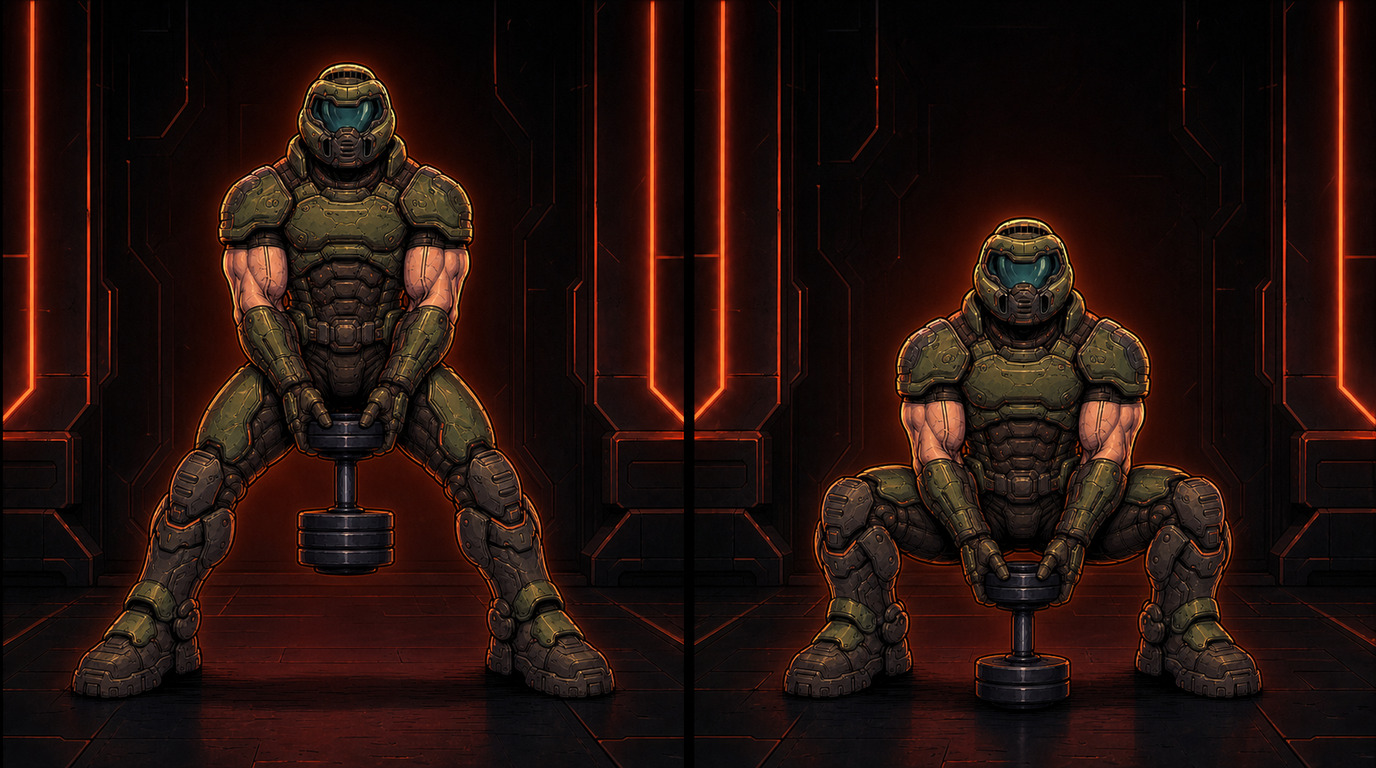
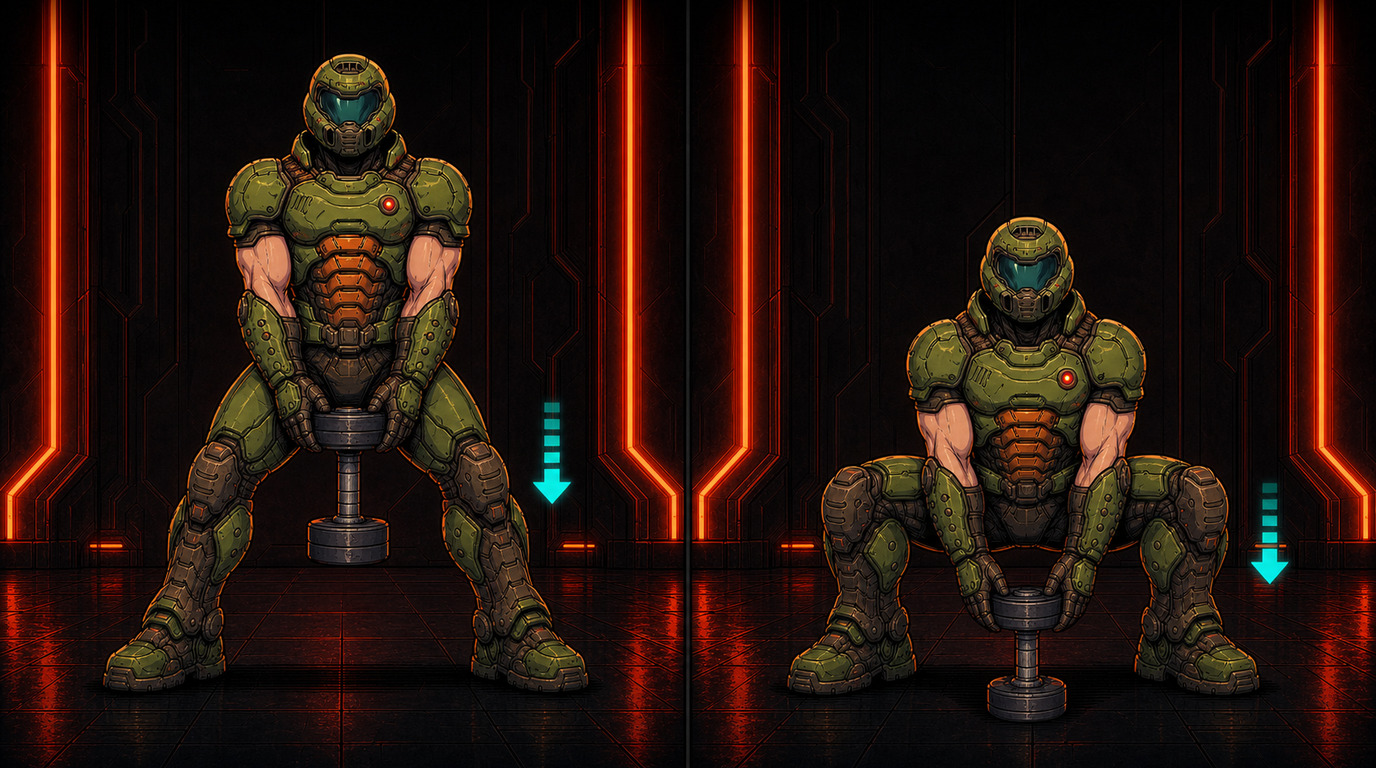
Update legs media and remove goblet squat duplicate

diff --git a/scripts/translate-db-to-english.js b/scripts/translate-db-to-english.js
@@ -121,7 +121,7 @@ const translations = [
   ['Triceps frances com halter', 'Overhead dumbbell triceps extension'],
   ['Triceps testa com halteres', 'Dumbbell skull crusher'],
   ['Coice de triceps com halter', 'Dumbbell triceps kickback'],
-  ['Agachamento goblet com kettlebell ou halter', 'Goblet squat with kettlebell or dumbbell'],
+  ['Agachamento goblet com kettlebell ou halter', 'Goblet squat'],
   ['Agachamento goblet', 'Goblet squat'],
   ['Afundo com halteres', 'Dumbbell lunge'],
   ['Stiff com halteres', 'Dumbbell Romanian deadlift'],

diff --git a/scripts/link-doom-exercise-media.js b/scripts/link-doom-exercise-media.js
@@ -17,7 +17,6 @@ const publicMediaRoot = '/assets/doom-exercises';
 
 const aliasByName = new Map([
   ['dumbbell or short-bar curl', { category: 'Biceps', slug: 'dumbbell-or-short-bar-curl' }],
-  ['goblet squat with kettlebell or dumbbell', { category: 'Legs', slug: 'goblet-squat' }],
   ['dumbbell pullover on bench', { category: 'Back', slug: 'dumbbell-pullover' }],
   ['reverse-grip dumbbell bench press', { category: 'Chest', slug: 'reverse-grip-dumbbell-bench-press' }]
 ]);

diff --git a/scripts/link-template-c-ai-media.js b/scripts/link-template-c-ai-media.js
@@ -16,13 +16,6 @@ const mediaByExerciseName = new Map([
     }
   ],
   [
-    'goblet squat with kettlebell or dumbbell',
-    {
-      imageUrl: '/assets/exercises/template-c/agachamento-goblet-com-kettlebell-ou-halter.png',
-      imageAlt: 'Start and end movement of goblet squat with kettlebell or dumbbell'
-    }
-  ],
-  [
     'dumbbell lunge',
     {
       imageUrl: '/assets/exercises/template-c/afundo-com-halteres.png',

diff --git a/src/services/seedExerciseCatalog.js b/src/services/seedExerciseCatalog.js
@@ -21,7 +21,6 @@ const strengthSubcategories = new Map([
   ['Overhead dumbbell triceps extension', 'Long head'],
   ['Dumbbell skull crusher', 'General triceps'],
   ['Dumbbell triceps kickback', 'Lateral triceps'],
-  ['Goblet squat with kettlebell or dumbbell', 'Quads and glutes'],
   ['Goblet squat', 'Quads and glutes'],
   ['Dumbbell lunge', 'Quads and glutes'],
   ['Dumbbell Romanian deadlift', 'Hamstrings'],

diff --git a/src/services/wgerMediaService.js b/src/services/wgerMediaService.js
@@ -22,7 +22,6 @@ const exerciseSearchAliases = new Map([
   ['crunch', 'crunch'],
   ['leg raise', 'leg raise'],
   ['dumbbell front raise', 'dumbbell front raise'],
-  ['goblet squat with kettlebell or dumbbell', 'goblet squat'],
   ['goblet squat', 'goblet squat'],
   ['dumbbell lunge', 'dumbbell lunge'],
   ['dumbbell romanian deadlift', 'dumbbell romanian deadlift'],
